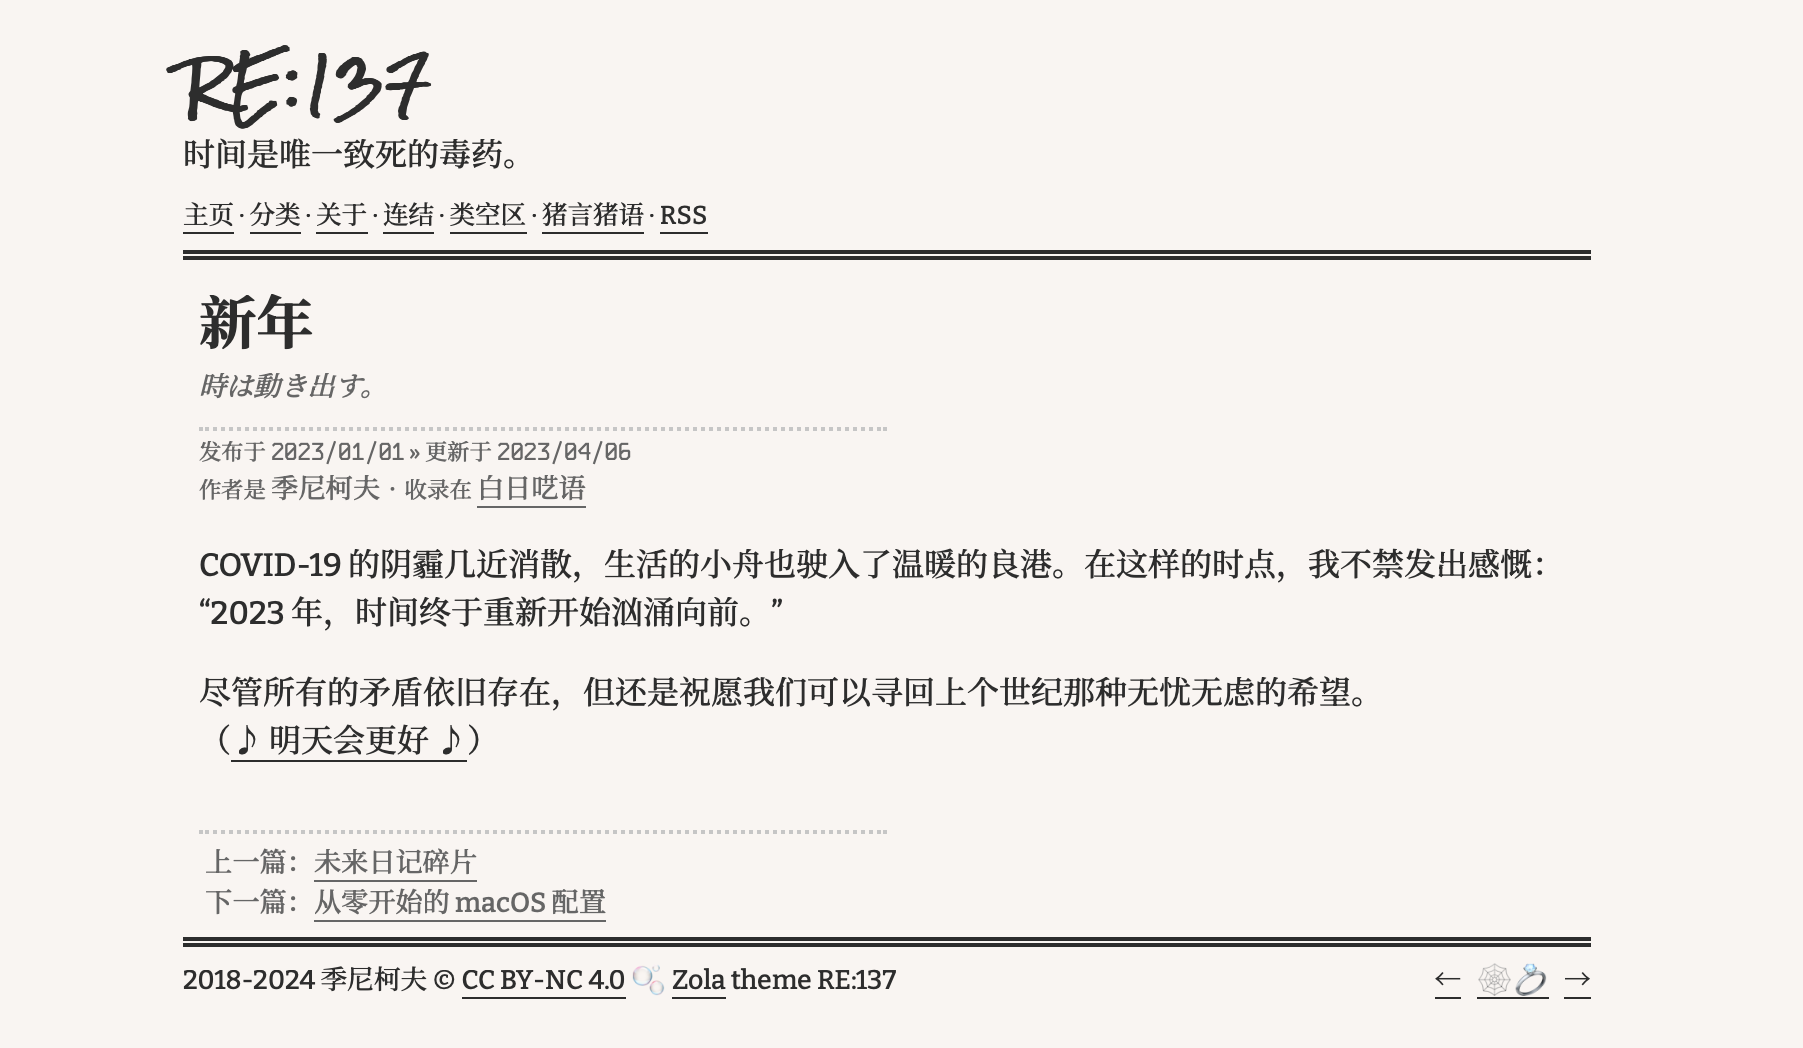
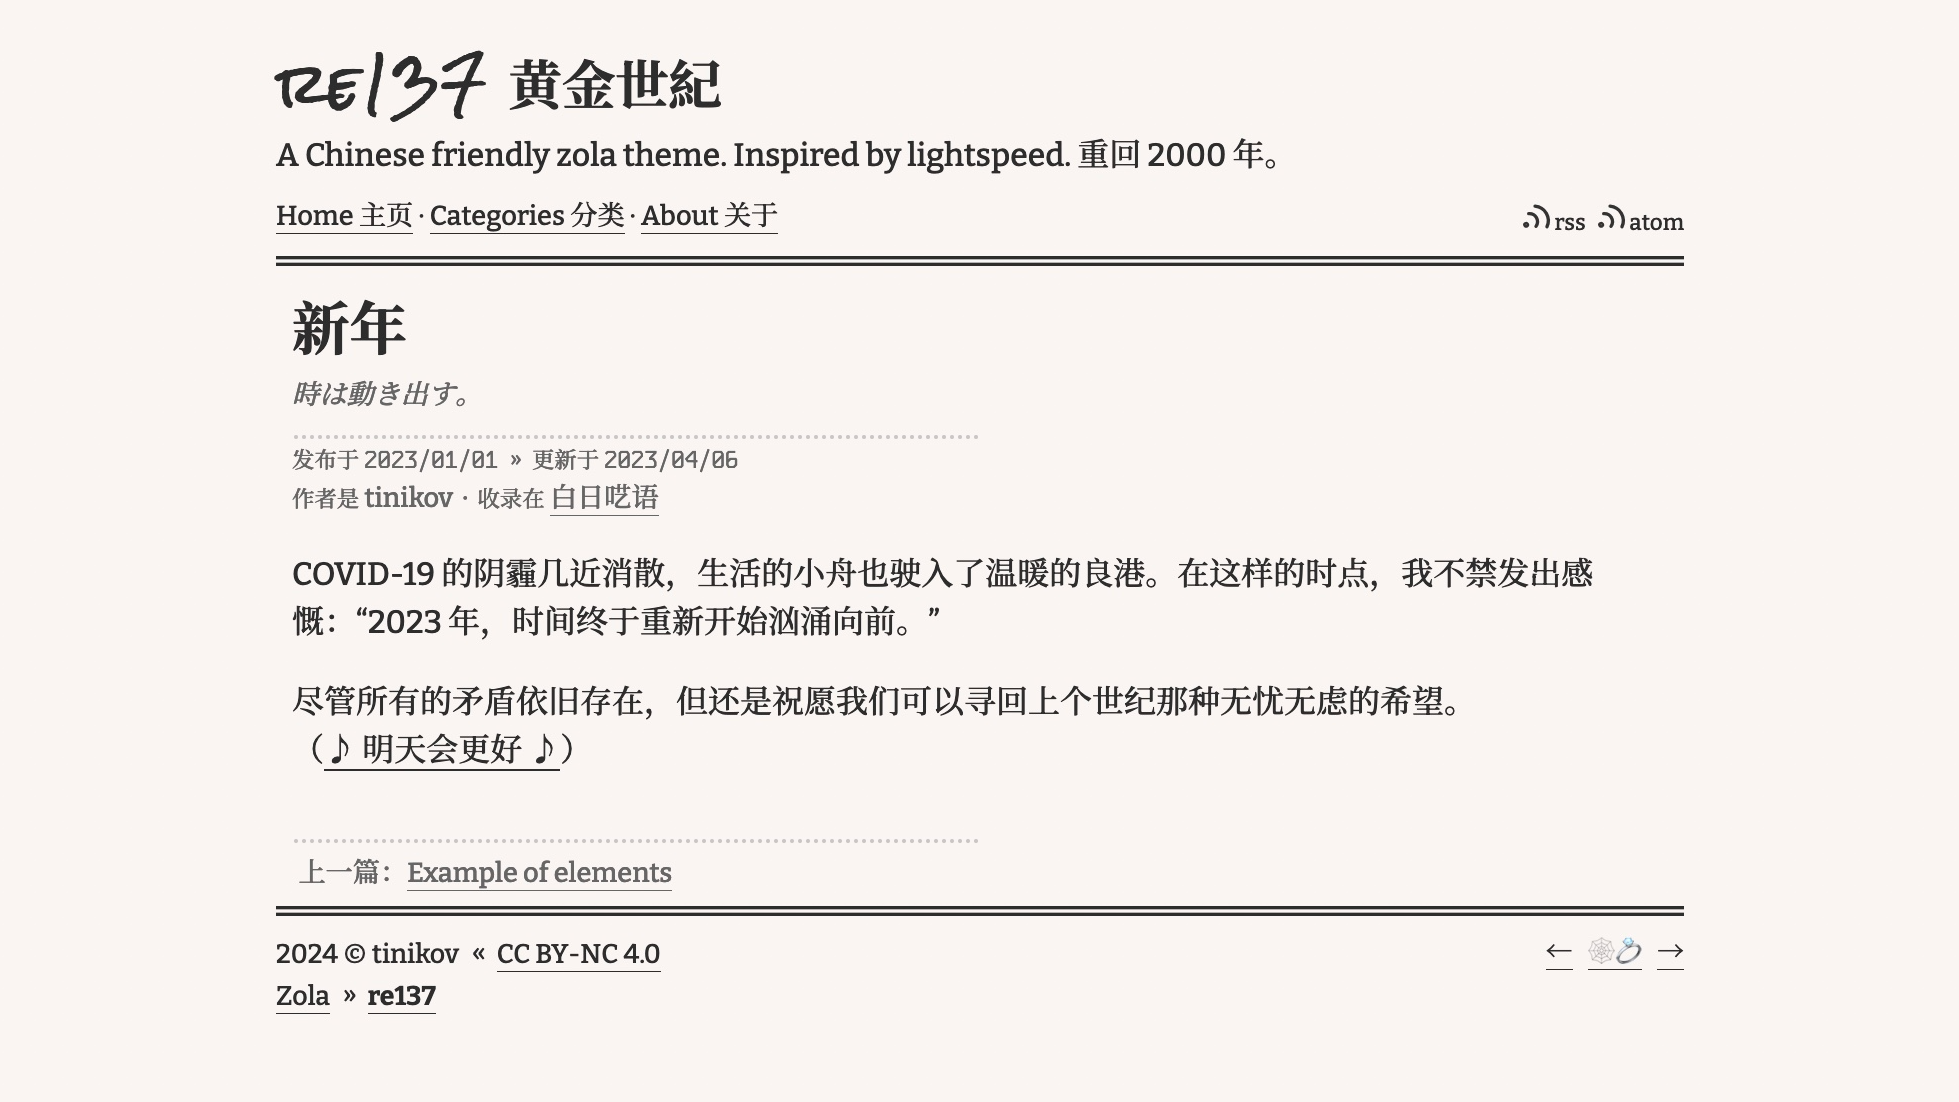
change RSS svg

Changed region(s): [[0.0932, 0.0305, 0.8697, 0.7328], [0.0932, 0.7634, 0.9007, 0.9466]]

diff --git a/templates/index.html b/templates/index.html
@@ -29,7 +29,10 @@
             type="image/png"
             sizes="16x16"
             href="{{ get_url(path="favicon-16x16.png") | safe }}">
-      <link rel="manifest" href="{{ get_url(path="site.webmanifest") | safe }}> <link rel="mask-icon" href="{{ get_url(path="safari-pinned-tab.svg") | safe }} color="#5bbad5">
+      <link rel="manifest" href="{{ get_url(path="site.webmanifest") | safe }}">
+      <link rel="mask-icon"
+            color="5bbad5"
+            href="{{ get_url(path="safari-pinned-tab.svg") | safe }}">
       <meta name="msapplication-TileColor" content="#da532c">
       <meta name="theme-color" content="#ffffff">
       {# Link google fonts #}
@@ -45,7 +48,8 @@
       {% if config.extra.github %}<link href={{ "https://github.com/" ~ config.extra.github }} rel="me">{% endif %}
       {# Authentication (GSC) #}
       {% if config.extra.google_search_console %}
-        <meta name="google-site-verification" content={{ config.extra.google_search_console }} />
+        <meta name="google-site-verification"
+              content="{{ config.extra.google_search_console }}" />
       {% endif %}
       {# Load CSS (fastest way) #}
       {% set cssdata = load_data(path="public/style.css", format="plain") -%}
@@ -87,15 +91,36 @@
           </h1>
           <p class="header-site-description">{{ config.description }}</p>
           {# Page navigator in the head section #}
-          {% if config.extra.re137_menu_links %}
+          {% if config.extra.re137_menu_links or config.generate_feeds %}
             <nav class="header-site-nav" role="navigation">
-              {% for item in config.extra.re137_menu_links %}
-                <a href="{{ item.url | replace(from="$BASE_URL", to=config.base_url) | safe }}">{{ item.name }}</a>
-                {% if loop.last %}
-                {% else %}
-                  <span>·</span>
-                {% endif %}
-              {% endfor %}
+              {% if config.extra.re137_menu_links %}
+                <div>
+                  {% for item in config.extra.re137_menu_links %}
+                    <a href="{{ item.url | replace(from="$BASE_URL", to=config.base_url) | safe }}">{{ item.name }}</a>
+                    {% if loop.last %}
+                    {% else %}
+                      <span>·</span>
+                    {% endif %}
+                  {% endfor %}
+                </div>
+              {% endif %}
+              {% if config.generate_feeds %}
+                <div>
+                  {% if config.feed_filenames | length < 2 %}
+                    <a class="header-site-rss-href"
+                       href="{{ config.base_url ~ "/" ~ config.feed_filenames[0] | safe }}">
+                      <img class="header-site-rss-img" src="/rss-svgrepo-com.svg" alt="RSS">
+                    </a>
+                  {% else %}
+                    {%- for item in config.feed_filenames -%}
+                      <a class="header-site-rss-href"
+                         href="{{ config.base_url ~ "/" ~ item | safe }}">
+                        <img class="header-site-rss-img" src="/rss-svgrepo-com.svg" alt="RSS">
+                        <span class="header-site-rss-icon-text">{{ item | trim_end_matches(pat=".xml") -}}</span></a>
+                    {%- endfor -%}
+                  {% endif %}
+                </div>
+              {% endif %}
             </nav>
           {% endif %}
         </header>

diff --git a/sass/style.scss b/sass/style.scss
@@ -141,7 +141,33 @@ ol {
 }
 
 .header-site-nav {
-	font-size: 0.8rem;
+	font-size: 0.85rem;
+	align-items: flex-start;
+	display: flex;
+	flex-wrap: wrap;
+	justify-content: space-between;
+}
+
+.header-site-rss-href {
+	text-decoration: unset;
+	text-underline-offset: unset;
+}
+
+.header-site-rss-href:hover {
+	color: $text-color
+}
+
+.header-site-rss-img {
+	display: inline-block;
+	vertical-align: middle;
+	margin: 0;
+	height: 1.25rem;
+}
+
+.header-site-rss-icon-text {
+	vertical-align: sub;
+	font-size: 0.7rem;
+	margin-left: -0.05rem;
 }
 
 .content {
